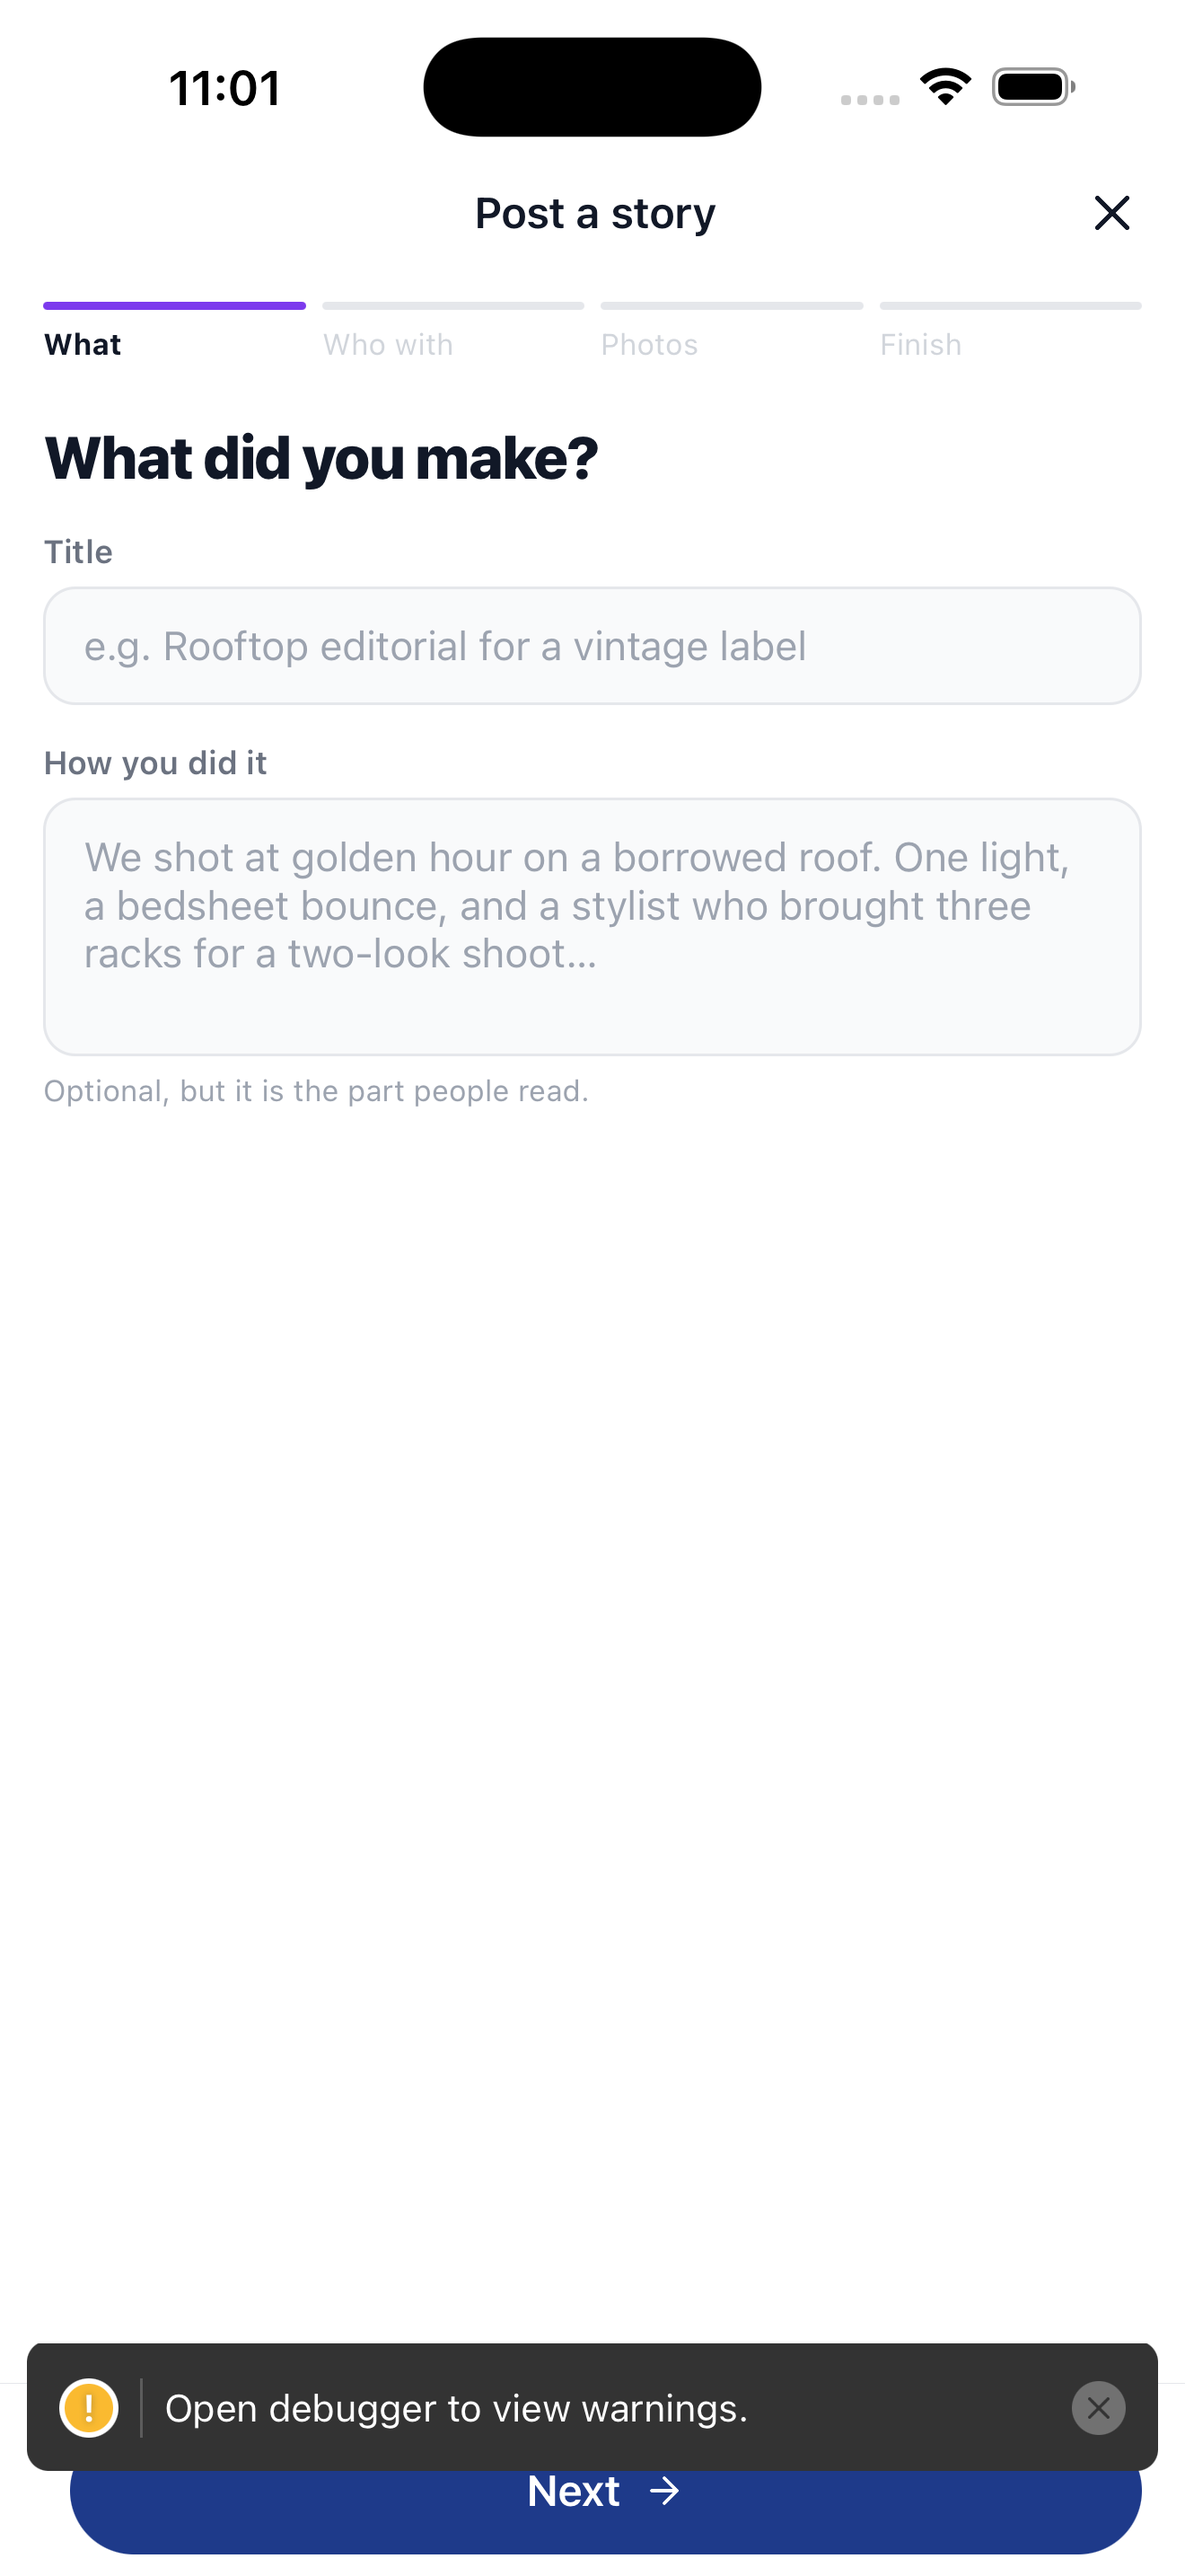
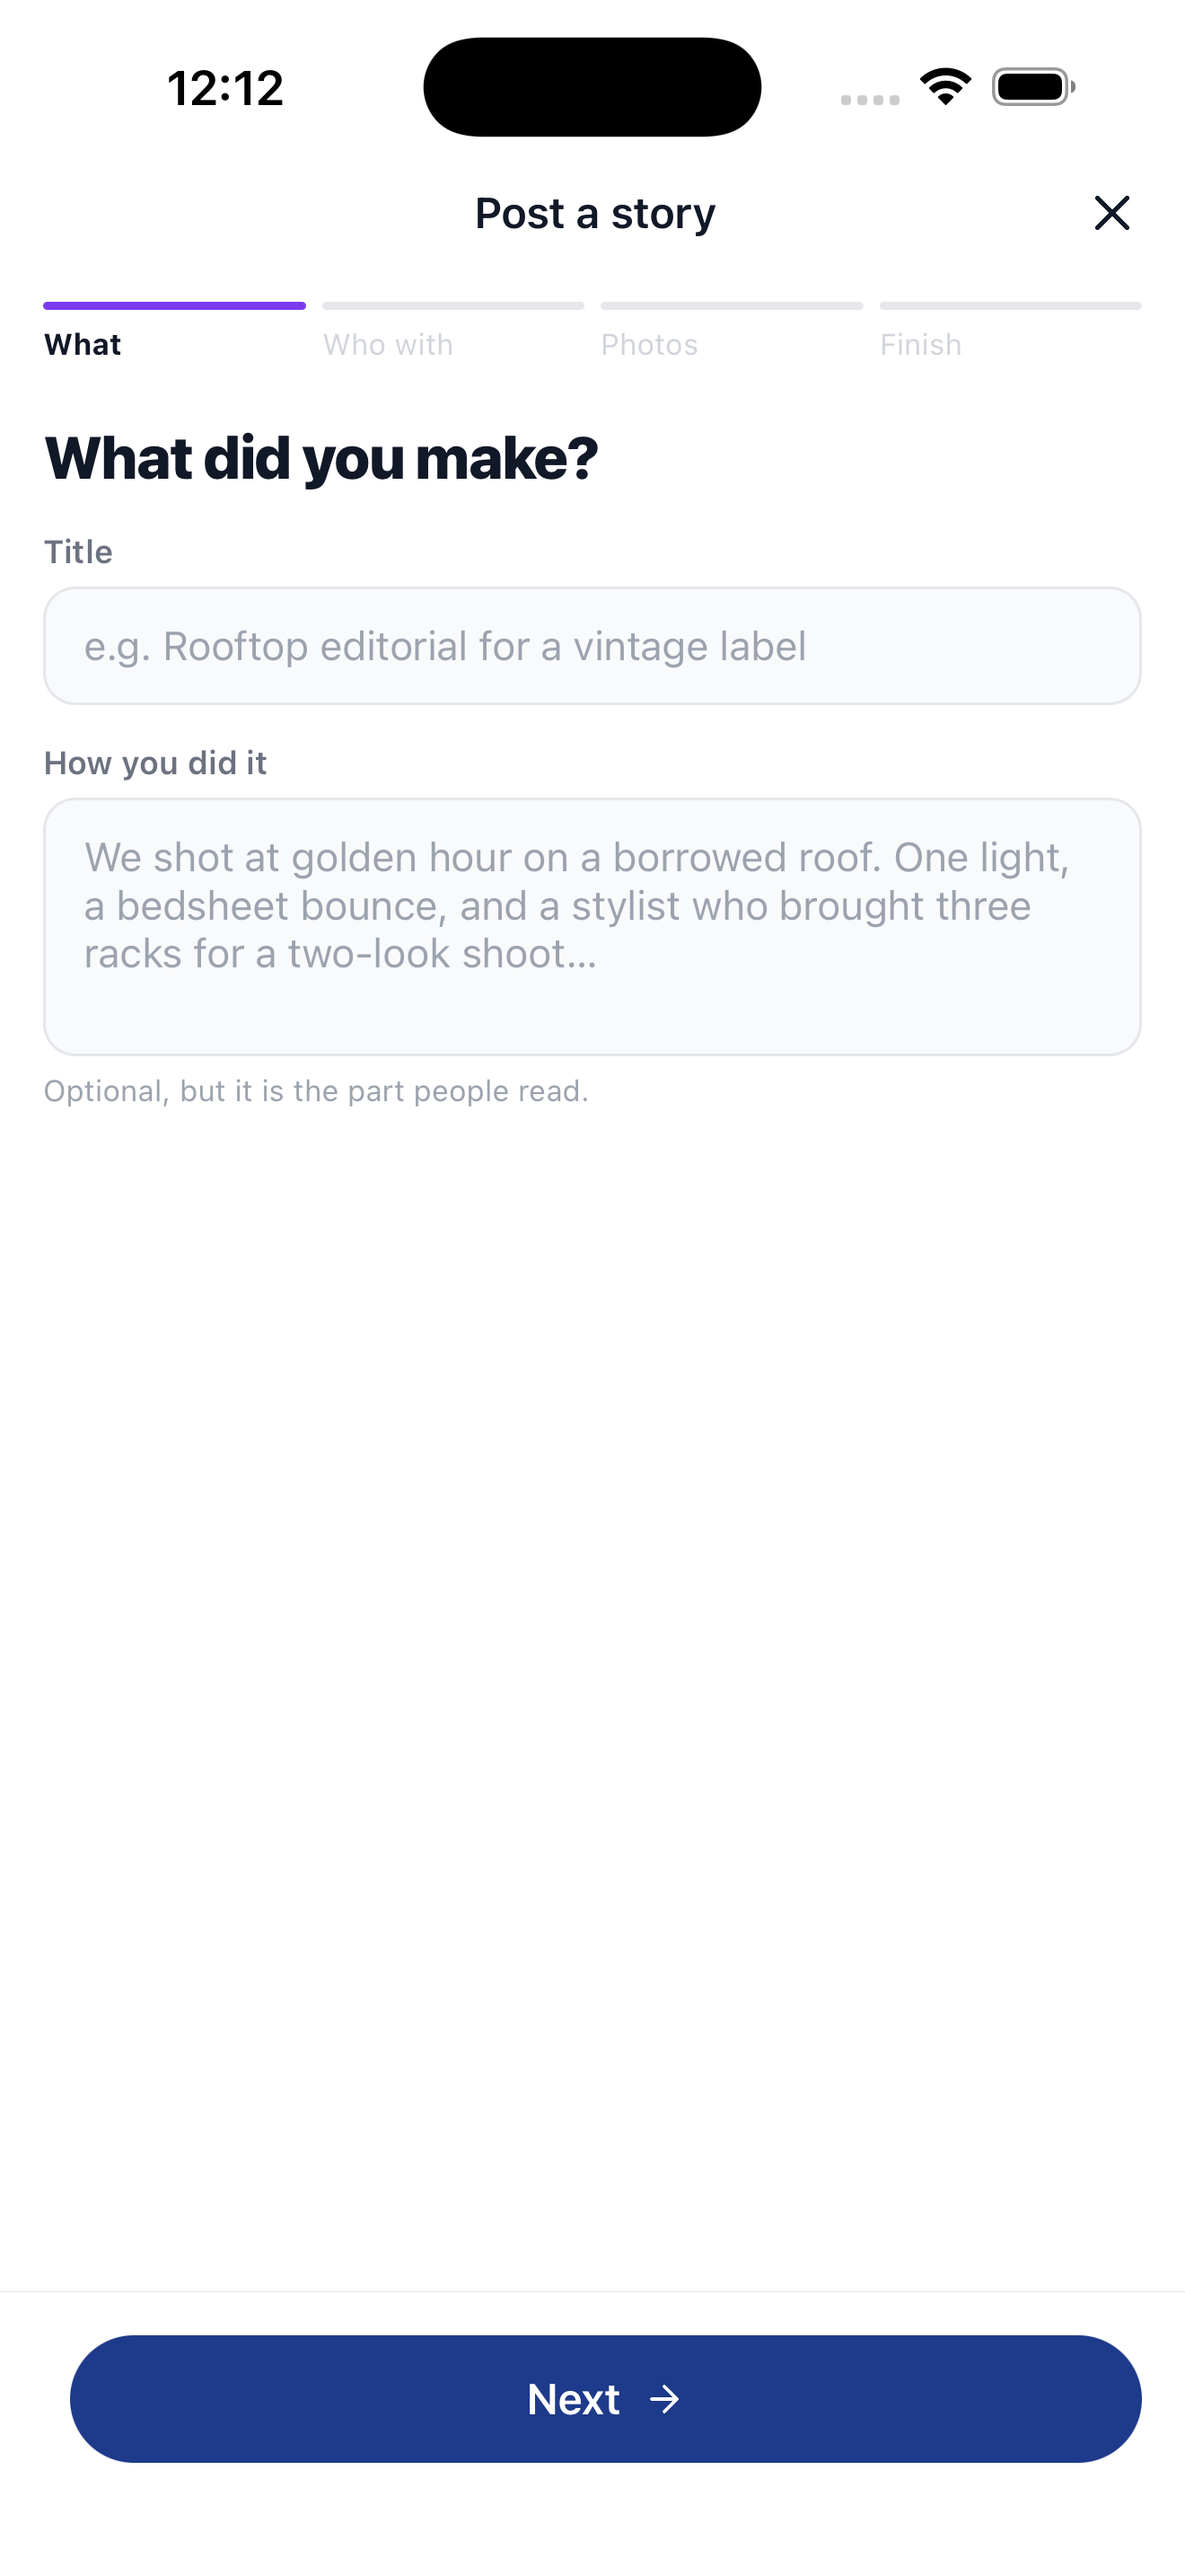
Verify the Stories screens against real data; raise the gallery dots
09_stories.sql is applied and three stories are seeded, so the feed,
detail and profile Work screens could finally be run rather than guessed
at. All three render correctly, including the distinction between a
credit linked to a Melange account and a plain-name one.

One real bug found and fixed: the story gallery's page dots sat at the
gallery's own bottom edge, which the body card covers (body.marginTop is
-24), so they were invisible on every multi-image story. Raised them
clear of the overlap.

Screenshots replaced with the real screens; the stale empty-state shot
is gone.

Changed region(s): [[0.0, 0.8999, 0.9939, 0.993], [0.1553, 0.031, 0.2485, 0.0621]]

diff --git a/mobile/app/story/[id].tsx b/mobile/app/story/[id].tsx
@@ -268,7 +268,10 @@ const styles = StyleSheet.create({
   galleryEmpty: { backgroundColor: colors.surfaceStrong },
   dots: {
     position: "absolute",
-    bottom: 14,
+    // The body card below overlaps the gallery by 24 (body.marginTop: -24),
+    // so dots sitting at the gallery's own bottom edge are covered by it.
+    // Clear the overlap first, then the usual inset.
+    bottom: 24 + 14,
     left: 0,
     right: 0,
     flexDirection: "row",
